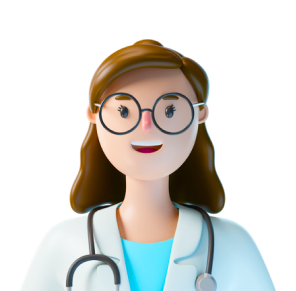
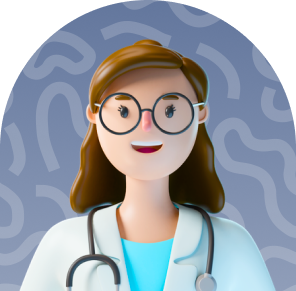
hero section done

diff --git a/hospital/src/components/HeroSection.jsx b/hospital/src/components/HeroSection.jsx
@@ -8,27 +8,36 @@ import Heroimg4 from "../../public/Heroimg4.png";
 import Heroimg5 from "../../public/Heroimg5.png";
 import Heroimgcard from "../../public/Heroimgcard.png";
 import Medicineicon from "../../public/MedicineIcon.png";
+import Arrow from "../../public/arrow.png";
+import hospital from "../../public/hospitalimg.png";
 
 export default function HeroSection() {
   return (
-    <section className="mt-12 bg-[#F5F6F9]">
+    <section className="py-12 bg-[#F5F6F9]">
       <div className="container mx-auto">
         <div className="flex">
           <div className="w-1/2">
-            <div className="">
-              <h1 className="text-5xl font-Fredoka font-semibold">
-                Find the good life by good health
-                <img src={Medicineicon} alt="" />
-              </h1>
+            <div className="relative">
+              <div className="">
+                <h1 className="text-5xl font-Fredoka font-semibold py-5 pe-16">
+                  Find the good life by good health
+                  {/* <img src={Medicineicon} alt="" /> */}
+                </h1>
+              </div>
+              <p className="font-DM Sans text-gray-500">
+                Dhameliya Kidney Hospital has born out of the need <br /> for a good centre which catered to patients with <br /> complicated kidney
+                diseases in Surat
+              </p>
+              <div className="mt-8 ">
+                <Buttons />
+                <Buttons />
+              </div>
+              <div className="w-[296px] h-[291px] p-5 pt-28">
+                <img src={GirlCartoon} alt="" />
+              </div>
+              <img src={Arrow} className="absolute top-52 right-24" />
+              <img src={hospital} className="absolute right-24 " />
             </div>
-            <p className="font-DM Sans text-gray-500">
-              Dhameliya Kidney Hospital has born out of the need for a good centre which catered to patients with complicated kidney diseases in Surat
-            </p>
-            <div className="mt-8 ">
-              <Buttons />
-              <Buttons />
-            </div>
-            <img src={GirlCartoon} alt="" className="w-303px h-303px" />
           </div>
           <div className="w-1/2 flex">
             <div className="w-1/2">

diff --git a/hospital/src/components/Header.jsx b/hospital/src/components/Header.jsx
@@ -3,9 +3,9 @@ import Logo from "../../public/Logo.png";
 import Buttons from "./Buttons";
 export default function Header() {
   return (
-    <section>
+    <section className="bg-[#F5F6F9] py-5">
       <div className="container mx-auto">
-        <nav className="flex justify-between items-center h-10 p-5 sticky top-0 left-0 right-0 mt-5">
+        <nav className="flex justify-between items-center h-10 p-5 ps-0 sticky top-0 left-0 right-0">
           <img src={Logo} alt="logo" />
           <ul className="flex">
             <li className="p-4">Home</li>

diff --git a/hospital/src/components/Buttons.jsx b/hospital/src/components/Buttons.jsx
@@ -1,5 +1,5 @@
 import React from "react";
 
 export default function Buttons() {
-  return <button style={{ backgroundColor: "#385182", padding: "9px" }} className="rounded-lg text-white">Make Appointment</button>;
+  return <button className="rounded-lg text-white bg-[#385182] p-2 me-5">Make Appointment</button>;
 }
